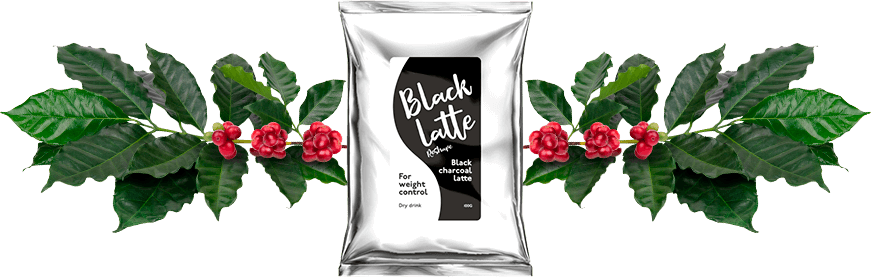
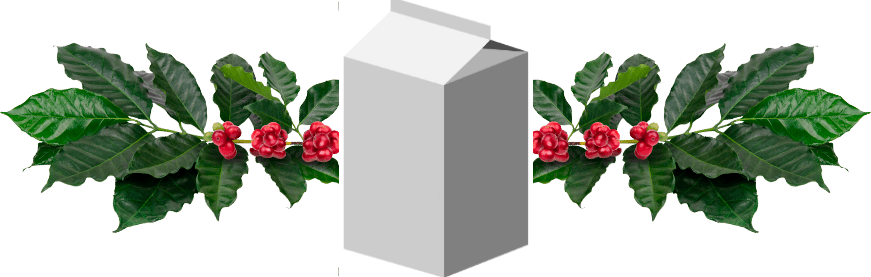
second

Changed region(s): [[0.372, 0.0, 0.62, 1.0]]

diff --git a/app/index.html b/app/index.html
@@ -4,7 +4,7 @@
 <head>
 
 	<meta charset="utf-8">
-	<title>Black Latte</title>
+	<title>SLim Latte</title>
 	<meta http-equiv="X-UA-Compatible" content="IE=edge">
 	<meta name="viewport" content="width=device-width, initial-scale=1, minimum-scale=1">
 	<link rel="icon" href="img/favicon/favicon.ico">
@@ -17,7 +17,7 @@
 <body>
 	<header class="header">
 		<div class="container">
-			<div class="header-text">Black Latte</div>
+			<div class="header-text">SLim Latte</div>
 			<form action="" class="header-form">
 				<div class="header-count">
 					<div class="header-minus"> - </div>
@@ -46,7 +46,7 @@
 		</section>
 		<section class="third animated">
 			<div class="container">
-				<h2 class="third-title">What is Black Latte?</h2>
+				<h2 class="third-title">What is SLim Latte?</h2>
 				<p class="third-text">It’s a tasty latte drink that provides a fantastic weight loss treatment that also has rejuvenating, refreshing and invigorating effect. It’ll make your fat rolls disappear and your whole body boosted with the energy of nature!</p>
 				<ul class="third-list">
 					<li class="third-item third-item--1">
@@ -84,14 +84,14 @@
 		<section class="fourth">
 			<div class="container">
 				<p class="fourth-text">
-					Black Latte is an unparalleled coal detox coffee, an absolutely natural antioxidant. The main properties of the product: it cleans the slagded organism, reduces the fat layer and volumes, saturates with useful microelements and helps to maintain the result for a long time. The last factor is very important. After all, the main thing - not only to lose weight, but also to keep the weight in place, but according to statistics, 80% of women do not succeed.
+					SLim Latte is an unparalleled coal detox coffee, an absolutely natural antioxidant. The main properties of the product: it cleans the slagded organism, reduces the fat layer and volumes, saturates with useful microelements and helps to maintain the result for a long time. The last factor is very important. After all, the main thing - not only to lose weight, but also to keep the weight in place, but according to statistics, 80% of women do not succeed.
 				</p>
 			</div>
 		</section>
 		<section class="fifth animated">
 			<div class="container">
-				<h2 class="fifth-title">Advantages of Black Latte</h2>
-				<p class="fifth-text">The first thing you notice about a person is their figure. If you aren’t currently drinking Black Latte, sorry to inform you but you’re woefully behind in the body care game. Black Latte is a quick weight loss due to the breakdown of fat and the absorption of slags.</p>
+				<h2 class="fifth-title">Advantages of SLim Latte</h2>
+				<p class="fifth-text">The first thing you notice about a person is their figure. If you aren’t currently drinking SLim Latte, sorry to inform you but you’re woefully behind in the body care game. SLim Latte is a quick weight loss due to the breakdown of fat and the absorption of slags.</p>
 				<ul class="fifth-list">
 					<li class="fifth-item fifth-item--1">
 						<div class="fifth-item-wrapper">
@@ -127,13 +127,13 @@
 					<li class="sixth-item">
 						<img src="img/1.jpg" alt="" class="sixth-img">
 						<p class="sixth-text">
-							I was a lonely fat guy that was spending his time scrolling facebook newsfeed, envying those men who are slim and attractive for women and only hating himself. But once I saw an article about Black Latte. I decided to give it a try, because it can’t get any worse. And now I ain’t a fat loser and I’m strong enough to get a promotable work and satisfy my insatiable gf!<br /><br /><b>Mark</b>
+							I was a lonely fat guy that was spending his time scrolling facebook newsfeed, envying those men who are slim and attractive for women and only hating himself. But once I saw an article about SLim Latte. I decided to give it a try, because it can’t get any worse. And now I ain’t a fat loser and I’m strong enough to get a promotable work and satisfy my insatiable gf!<br /><br /><b>Mark</b>
 						</p>
 					</li>
 					<li class="sixth-item">
 						<img src="img/2.jpg" alt="" class="sixth-img">
 						<p class="sixth-text">
-							I started using Black Latte cream recently. From the first week, I noticed a huge weight loss! I started feeling so much better, my swelling and puffiness finally disappeared. I eat the same amount of food but I lose weight. Perfect weight loss method!
+							I started using SLim Latte cream recently. From the first week, I noticed a huge weight loss! I started feeling so much better, my swelling and puffiness finally disappeared. I eat the same amount of food but I lose weight. Perfect weight loss method!
 							<br /><br />
 							<b>Margaret</b>
 						</p>
@@ -141,7 +141,7 @@
 					<li class="sixth-item">
 						<img src="img/3.jpg" alt="" class="sixth-img">
 						<p class="sixth-text">
-							Dump that pony keg for a six-pack! If you want to have a normal life without beer belly and lonely nights,use Black Latte. That’s the only way to become slim without spending all day long in the gym. I tried a lot of treatments, and they didn’t work. So I tried to taking Black Latte, and that was a huuuuge improvement for me. No belly, no fat rolls from now on!
+							Dump that pony keg for a six-pack! If you want to have a normal life without beer belly and lonely nights,use SLim Latte. That’s the only way to become slim without spending all day long in the gym. I tried a lot of treatments, and they didn’t work. So I tried to taking SLim Latte, and that was a huuuuge improvement for me. No belly, no fat rolls from now on!
 							<br /><br />
 							<b>Stewart</b>
 						</p>
@@ -149,7 +149,7 @@
 					<li class="sixth-item">
 						<img src="img/4.jpg" alt="" class="sixth-img">
 						<p class="sixth-text">
-							My bestie told me that Black Latte is a very effective in losing weight. But I was surprised that it’s also very delicious. I mean, it’s not like these awful tasting pills or teas. I lost my extra 24 kg with ease! This is unbelievable! Now I’m the happiest woman ever!
+							My bestie told me that SLim Latte is a very effective in losing weight. But I was surprised that it’s also very delicious. I mean, it’s not like these awful tasting pills or teas. I lost my extra 24 kg with ease! This is unbelievable! Now I’m the happiest woman ever!
 							<br /><br />
 							<b>Lora</b>
 						</p>
@@ -157,7 +157,7 @@
 					<li class="sixth-item">
 						<img src="img/5.jpg" alt="" class="sixth-img">
 						<p class="sixth-text">
-							If you want to find to find a way to be happy, healthy and slim, you definitely should try Black Latte! I ordered my third one recently! That’s an essential weight loss supplement, for sure!! Now all of my girlfriends are jealous of my sexy figure!
+							If you want to find to find a way to be happy, healthy and slim, you definitely should try SLim Latte! I ordered my third one recently! That’s an essential weight loss supplement, for sure!! Now all of my girlfriends are jealous of my sexy figure!
 							<br /><br />
 							<b>Alice</b>
 						</p>
@@ -168,7 +168,7 @@
 		<section class="seventh animated">
 			<div class="container">
 				<h2 class="seventh-title">Fulfill your dreams</h2>
-				<p class="seventh-text">No need to hide your body under the clothes! Enjoy your beautiful slim and healthy figure that catches all the attraction! Shine bright, with Black Latte.</p>
+				<p class="seventh-text">No need to hide your body under the clothes! Enjoy your beautiful slim and healthy figure that catches all the attraction! Shine bright, with SLim Latte.</p>
 				<form action="order.php" class="order" method="post" id="form">
 					<select id="country_code_selector" class="order-input order-select" name="country_code">
 						<option value="BL" selected>Belgium</option>

diff --git a/app/css/main.css b/app/css/main.css
@@ -1463,10 +1463,13 @@ DEFAULT CSS END
 .order:after {
   position: absolute;
   content: '';
-  background-image: url(../img/product-3.png);
-  left: 330px;
+  background-image: url(../img/product.png);
+  background-repeat: no-repeat;
+  -webkit-background-size: 100%;
+  background-size: ;
+  left: 390px;
   bottom: 40px;
-  width: 434px;
+  width: 250px;
   height: 332px
 }
 .order:before {
@@ -1642,7 +1645,7 @@ DEFAULT CSS END
     bottom: -42px
   }
   .second-img {
-    width: 300px
+    width: 120px
   }
   .third {
     padding-top: 60px
